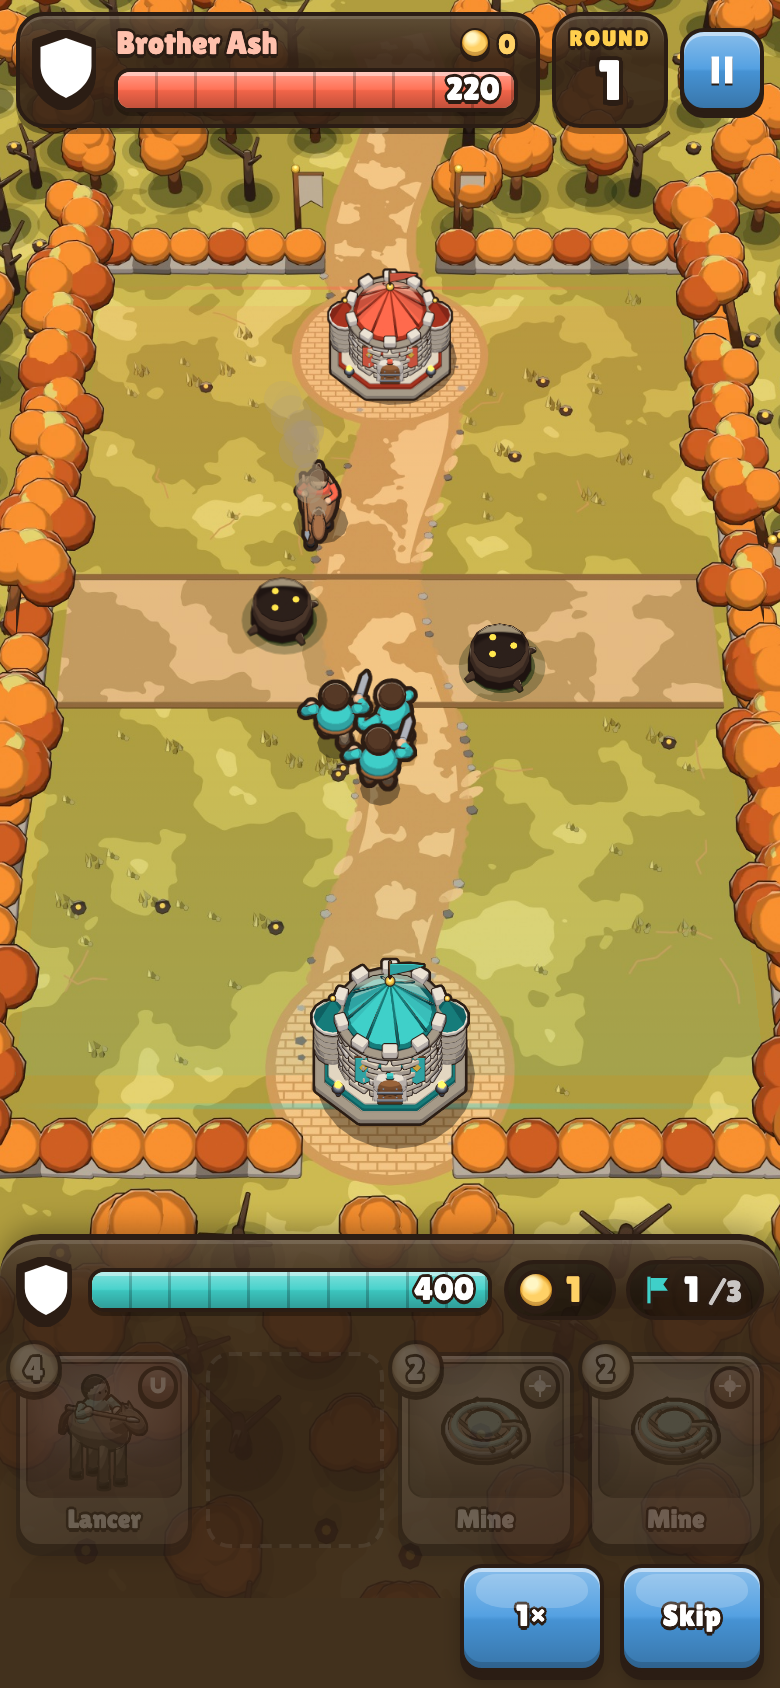
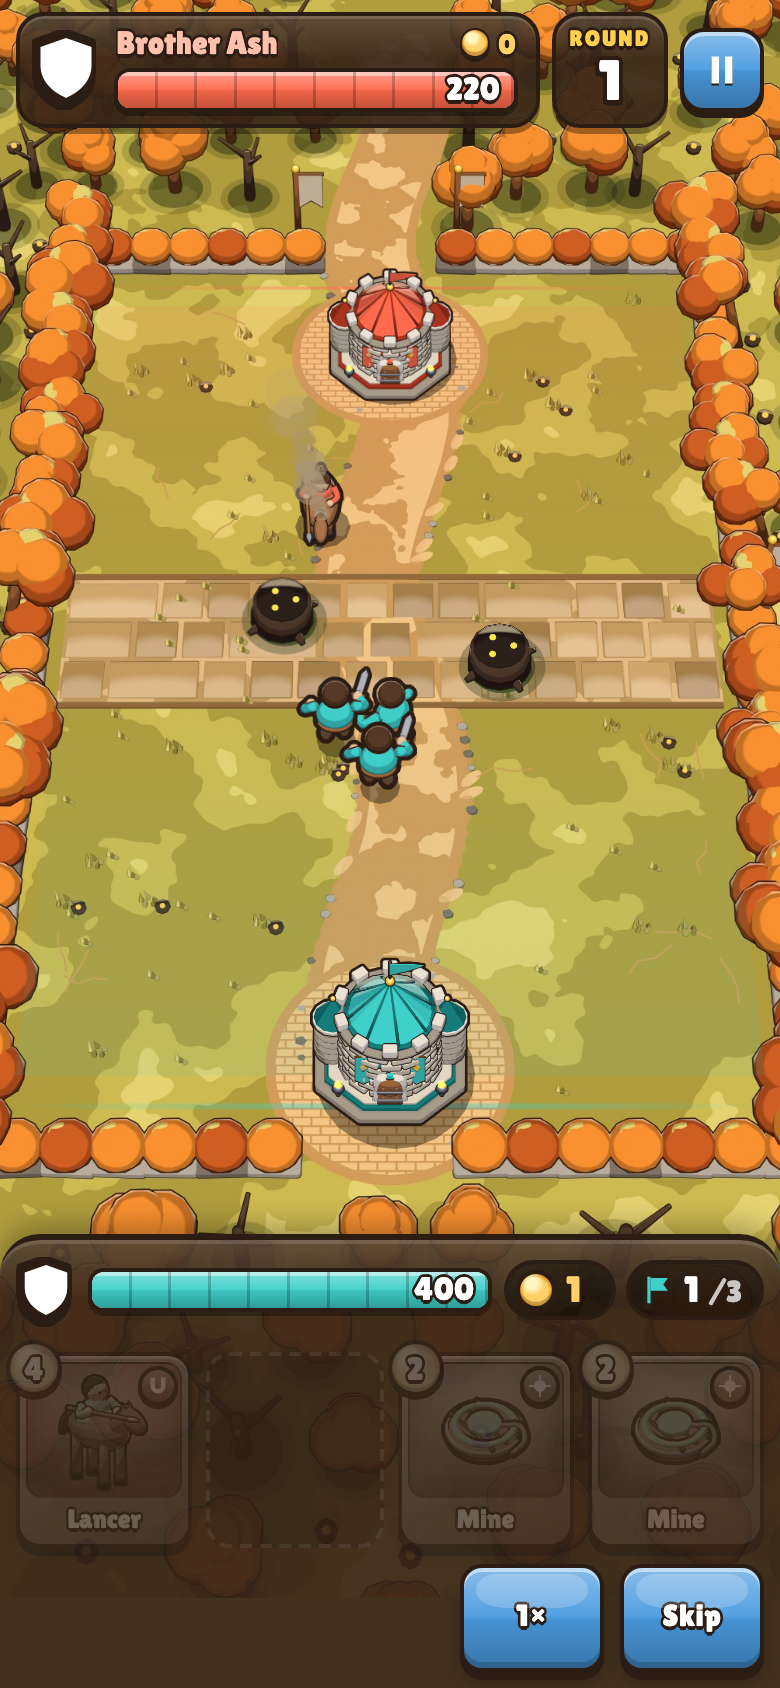
Arenas: own strips for Acts 2-4 (cracked mud, mossy stones, ore-cart track), fairy rings, frost clumps; cheaper foreground
- Ash Fields' strip is cracked mud plates, Hollow Wood's mossy flagstones with toadstool fairy rings in each zone,
  Iron Pass gets sleepers and iron rails across the pass, Frozen Reach frost clumps and banners
- foreground.ts redraws only the part of a cell over the figures under it (the backdrop already holds the canopy),
  arena images are decoded on load so the first fade doesn't hitch
- fix: the Frozen Reach relief shadowed the script's args (crashed the manifest step after Act 6)

Changed region(s): [[0.0615, 0.2464, 0.9231, 0.4929], [0.9231, 0.1848, 0.9538, 0.2156]]

diff --git a/src/render/foreground.ts b/src/render/foreground.ts
@@ -9,7 +9,7 @@ import { backdropRect, type Arena } from "./arena";
 import type { Camera, Rect } from "./camera";
 
 /** Alpha of a foreground cell with a unit under it. */
-export const FG_FADED = 0.28;
+export const FG_FADED = 0.4;
 
 /** Screen rects of the foreground cells (stored as fractions of the backdrop) for a backdrop drawn at `r`. */
 export function fgCells(cells: readonly (readonly number[])[], r: Rect): Rect[] {
@@ -21,6 +21,19 @@ const overlaps = (a: Rect, b: Rect) => a.x < b.x + b.w && b.x < a.x + a.w && a.y
 /** Target alpha per cell: FG_FADED where any unit box overlaps it, else 1. */
 export function fadeTargets(cells: readonly Rect[], boxes: readonly Rect[], faded = FG_FADED): number[] {
   return cells.map((c) => (boxes.some((b) => overlaps(c, b)) ? faded : 1));
+}
+
+/** The part of a cell under the figures overlapping it: the cell clipped to their bounding box (null if none). */
+export function clipTo(cell: Rect, boxes: readonly Rect[]): Rect | null {
+  let x0 = Infinity, y0 = Infinity, x1 = -Infinity, y1 = -Infinity;
+  for (const b of boxes) {
+    if (!overlaps(cell, b)) continue;
+    x0 = Math.min(x0, b.x); y0 = Math.min(y0, b.y); x1 = Math.max(x1, b.x + b.w); y1 = Math.max(y1, b.y + b.h);
+  }
+  if (x1 < x0) return null;
+  x0 = Math.max(x0, cell.x); y0 = Math.max(y0, cell.y);
+  x1 = Math.min(x1, cell.x + cell.w); y1 = Math.min(y1, cell.y + cell.h);
+  return x1 > x0 && y1 > y0 ? { x: x0, y: y0, w: x1 - x0, h: y1 - y0 } : null;
 }
 
 /** Eases alphas toward their targets in place: out quickly (a unit walked under), back in slowly. */
@@ -93,7 +106,7 @@ export class ArenaLayers {
     ctx.restore();
   }
 
-  /** Soft cloud wisps drifting past the courtyard, outside the board. */
+  /** Soft cloud wisps drifting through the sky beyond the far and near rails (outside the board, so no clip). */
   private clouds(ctx: CanvasRenderingContext2D, a: Arena, cam: Camera, time: number) {
     const r = backdropRect(a.m, cam.k, cam.cx, cam.cy);
     if (!this.wisp) {
@@ -107,18 +120,18 @@ export class ArenaLayers {
       }
       this.wisp = c;
     }
-    const tl = cam.project(-0.9, -0.9), tr = cam.project(W + 0.9, -0.9), bl = cam.project(-0.9, H + 0.9), br = cam.project(W + 0.9, H + 0.9);
-    ctx.save();
-    ctx.beginPath();
-    ctx.rect(r.x, r.y, r.w, r.h);
-    ctx.moveTo(tl.x, tl.y); ctx.lineTo(bl.x, bl.y); ctx.lineTo(br.x, br.y); ctx.lineTo(tr.x, tr.y); ctx.closePath();
-    ctx.clip("evenodd");
+    const far = cam.project(0, -0.9).y, near = cam.project(0, H + 0.9).y;
     const span = r.w + 240;
-    for (let i = 0; i < 7; i++) {
-      const sp = 7 + 6 * rnd(i, 3), y = r.y + r.h * (0.04 + 0.92 * rnd(i, 5)), w = 150 + 110 * rnd(i, 9);
-      const x = r.x - 200 + ((rnd(i, 1) * span + time * sp) % span);
-      ctx.globalAlpha = 0.45 + 0.3 * rnd(i, 17);
-      ctx.drawImage(this.wisp, x, y - w * 0.25, w, w * 0.5);
+    ctx.save();
+    for (let i = 0; i < 6; i++) {
+      const top = i % 2 === 0;
+      const y0 = top ? r.y : near, y1 = top ? far : r.y + r.h;
+      const w = 120 + 90 * rnd(i, 9), hh = w * 0.5;
+      if (y1 - y0 < hh * 0.6) continue;
+      const y = y0 + hh * 0.3 + (y1 - y0 - hh * 0.6) * rnd(i, 5) - hh / 2;
+      const x = r.x - 200 + ((rnd(i, 1) * span + time * (7 + 6 * rnd(i, 3))) % span);
+      ctx.globalAlpha = 0.4 + 0.3 * rnd(i, 17);
+      ctx.drawImage(this.wisp, x, y, w, hh);
     }
     ctx.restore();
   }
@@ -135,12 +148,15 @@ export class ArenaLayers {
     const dt = this.last < 0 ? 0 : Math.max(0, Math.min(0.1, time - this.last));
     this.last = time;
     easeAlphas(this.alpha, target, dt);
+    // The backdrop already holds this canopy at full strength, so drawing it again only shows where a figure was drawn
+    // over it: each cell redraws just the part covering the figures under it, at the cell's eased alpha.
     const sx = img.naturalWidth / r.w, sy = img.naturalHeight / r.h;
     ctx.save();
     for (let i = 0; i < cells.length; i++) {
-      const c = cells[i], al = this.alpha[i];
-      if (al <= 0.01) continue;
-      ctx.globalAlpha = al;
+      if (target[i] >= 1) continue;
+      const c = clipTo(cells[i], boxes);
+      if (!c) continue;
+      ctx.globalAlpha = this.alpha[i];
       ctx.drawImage(img, (c.x - r.x) * sx, (c.y - r.y) * sy, c.w * sx, c.h * sy, c.x, c.y, c.w, c.h);
     }
     ctx.restore();

diff --git a/tests/foreground.test.ts b/tests/foreground.test.ts
@@ -74,3 +74,13 @@ describe("arena foreground", () => {
     }
   });
 });
+
+describe("foreground redraw region", () => {
+  it("clips a cell to the figures under it, and skips cells with none", async () => {
+    const { clipTo } = await import("../src/render/foreground");
+    const cell = { x: 0, y: 0, w: 100, h: 100 };
+    expect(clipTo(cell, [{ x: 90, y: 40, w: 30, h: 20 }])).toEqual({ x: 90, y: 40, w: 10, h: 20 });
+    expect(clipTo(cell, [{ x: 10, y: 10, w: 10, h: 10 }, { x: 50, y: 60, w: 10, h: 10 }])).toEqual({ x: 10, y: 10, w: 50, h: 60 });
+    expect(clipTo(cell, [{ x: 200, y: 0, w: 10, h: 10 }])).toBeNull();
+  });
+});

diff --git a/src/render/arena.ts b/src/render/arena.ts
@@ -64,7 +64,8 @@ function load(url: string): Promise<HTMLImageElement | null> {
   return new Promise((res) => {
     const i = new Image();
     i.decoding = "async";
-    i.onload = () => { images.set(url, i); res(i); };
+    // Decode up front so the first frame that draws it (the foreground, mid-battle) doesn't hitch.
+    i.onload = () => { images.set(url, i); (i.decode ? i.decode().catch(() => undefined) : Promise.resolve()).then(() => res(i)); };
     i.onerror = () => { images.set(url, null); res(null); };
     i.src = url;
   });

diff --git a/art/arenas/render_arenas.py b/art/arenas/render_arenas.py
@@ -50,15 +50,17 @@ ACTS = {
     2: dict(name="Ash Fields", g=dict(grass="#c3b85c", grass_dk="#a89c48", grass_lt="#d9cf7a", strip="#d8b98a", strip_dk="#b99a68",
                                        foliage="#e8913c", foliage_dk="#c0612c", path="#e6c48e", path_dk="#c69b62", moss="#b2a04a"),
             border="hedge", trees=("broad", "broad", "dead"), scatter="embers", obstacle="charstump", footing=True,
-            dress=dict(wear=True, clumps="dry", n_clumps=24, tufts=60, cracks=26, banners=("#e8dcc0", "#c0612c")), fg="canopy"),
+            dress=dict(wear=True, clumps="dry", n_clumps=26, tufts=60, cracks=30, banners=("#e8dcc0", "#c0612c"),
+                       cobbles=("#b99a68", "#a88a5a", "#c4a675", "#9c7f52"), cobble_size=0.64, cobble_gap=0.07), fg="canopy"),
     3: dict(name="Hollow Wood", g=dict(grass="#6cb552", grass_dk="#54993f", grass_lt="#8ccb63", foliage="#46a04c", foliage_dk="#2e7a3a",
                                        strip="#c9b083", strip_dk="#a98f63"),
             border="hedge", trees=("broad", "pine", "broad"), scatter="mushrooms", obstacle="stump",
-            dress=dict(wear=True, clumps="ferns", n_clumps=30, tufts=90, moss=16, roots=True), fg="canopy"),
+            dress=dict(wear=True, clumps="ferns", n_clumps=30, tufts=90, moss=16, roots=True, rings=True,
+                       cobbles=("#9fa88c", "#8e9a7c", "#aab39a", "#b5ab8c"), cobble_size=0.62, cobble_gap=0.08), fg="canopy"),
     4: dict(name="Iron Pass", g=dict(grass="#a2bd72", grass_dk="#88a35d", grass_lt="#bcd38e", path="#ddd2b8", path_dk="#b8aa8c",
                                      strip="#cfc6b2", strip_dk="#aea38c", foliage="#4f9a5e", foliage_dk="#2f6f45", rock="#b4b0a8", rock_dk="#7d7972"),
             border="rocks", trees=("pine", "pine", "crag"), scatter="pebbles", obstacle="crag",
-            dress=dict(wear=True, clumps="heather", n_clumps=26, tufts=40, gravel=18, cracks=12, banners=("#cfd8e3", "#4f6f9a")), fg="pines"),
+            dress=dict(wear=True, clumps="heather", n_clumps=26, tufts=40, gravel=18, cracks=12, banners=("#cfd8e3", "#4f6f9a"), rails=True), fg="pines"),
     5: dict(name="High Keep", g=dict(grass="#8cc45e", grass_dk="#70ad4b", grass_lt="#a9d878", path="#cf5446", path_dk="#9c3a30",
                                      strip="#86c25a", strip_dk="#6aa947", court="#dcc6a0", court_dk="#a88d68"),
             court=True, strip_pat="patches", border="wall", trees=("topiary",), scatter="flowers", obstacle="pillar",
@@ -67,7 +69,8 @@ ACTS = {
     6: dict(name="Frozen Reach", g=dict(grass="#eef5fb", grass_dk="#d3e2ef", grass_lt="#ffffff", path="#c5d7e8", path_dk="#9fb7cf",
                                         strip="#dbe7f2", strip_dk="#b9cde0", foliage="#3f8f6a", foliage_dk="#2b6b52", rock="#a9b4c2", rock_dk="#76828f",
                                         moss="#f4f9ff", edge="#8aa2bb"),
-            border="snow", trees=("snowpine",), scatter="ice", obstacle="icerock", relief="snow", fg="snowpines"),
+            border="snow", trees=("snowpine",), scatter="ice", obstacle="icerock", relief="snow", fg="snowpines",
+            dress=dict(clumps="frost", n_clumps=20, banners=("#e9f2fb", "#5b7fb0"))),
     7: dict(name="Sky Throne", g=dict(grass="#bfe0ff", grass_dk="#a6d0f7", grass_lt="#e6f3ff", path="#6f8fe0", path_dk="#4c69bd",
                                       strip="#efe3c8", strip_dk="#cdbd9a", court="#f5efe3", court_dk="#d9cdb6", rock="#f2ece0", rock_dk="#c9bfae"),
             court=True, border="rail", trees=("cloud",), scatter="none", obstacle="obelisk",
@@ -354,6 +357,13 @@ def main():
                 if i % 3 == 0:
                     wk.cyl(0.03, 0.1, K.toon("#f3ead0"), loc=B(x + 0.16, y + 0.1, 0.05), outline=0.006)
                     wk.sphere(0.07, K.toon("#e2483a"), loc=B(x + 0.16, y + 0.1, 0.11), scale=(1, 1, 0.6), seg=12, rings=6, outline=0.006)
+            elif kind == "frost":
+                wk.ball(0.2, K.toon("#ffffff"), loc=B(x, y, 0.0), scale=(1.4, 1.1, 0.4), subdiv=2, outline=0.004)
+                for j in range(2 + i % 2):
+                    aa = j * 2.3 + i
+                    wk.crystal(0.05, 0.2 + 0.06 * j, K.toon("#bfe9ff", spec=0.6), loc=B(x + math.cos(aa) * 0.1, y + math.sin(aa) * 0.07, 0.02), rot=(14 * math.cos(aa), 14 * math.sin(aa), 0))
+                if i % 4 == 0:  # a frozen grass stalk
+                    wk.cone(0.03, 0.16, toon("foliage"), loc=B(x - 0.12, y + 0.05, 0.08), seg=5, outline=0.004)
             elif kind == "heather":
                 wk.ball(0.15, toon("foliage_dk"), loc=B(x, y, 0.02), scale=(1.3, 1.1, 0.45), subdiv=2, outline=0.004)
                 for j in range(5):
@@ -405,7 +415,27 @@ def main():
                         n += 1
             if ds.get("cobbles"):
                 # An old road across the neutral strip: low raised cobbles, the path crossing it.
-                flagstones(0.0, ZD + 0.08, W, H - ZD - 0.08, 0.46, ds["cobbles"], 7, gap=0.045)
+                flagstones(0.0, ZD + 0.08, W, H - ZD - 0.08, ds.get("cobble_size", 0.46), ds["cobbles"], 7, gap=ds.get("cobble_gap", 0.045))
+            if ds.get("rails"):
+                # An old ore-cart track across the pass: sleepers and two iron rails.
+                y = H / 2
+                wood, iron = K.toon("#7a5232"), K.toon("#8a94a2", spec=0.5)
+                xx = 0.15
+                while xx < W:
+                    wk.box((0.13, 0.95, 0.035), wood, loc=B(xx, y, 0.03), rot=(0, 0, (rnd(int(xx * 10), 231) - 0.5) * 6), bevel=0.01, outline=0.004)
+                    xx += 0.36
+                for dy in (-0.3, 0.3):
+                    wk.box((W + 0.4, 0.06, 0.05), iron, loc=B(W / 2, y + dy, 0.07), bevel=0.01, outline=0.004)
+            if ds.get("rings"):
+                # A fairy ring of toadstools in each deploy zone.
+                for (cx, cy) in ((1.7, 3.6), (7.2, H - 3.4)):
+                    for j in range(9):
+                        aa = j * math.tau / 9
+                        x, y = cx + math.cos(aa) * 0.55, cy + math.sin(aa) * 0.42
+                        wk.cyl(0.03, 0.1, K.toon("#f3ead0"), loc=B(x, y, 0.05), outline=0.006)
+                        wk.sphere(0.07 + 0.02 * (j % 2), K.toon("#e2483a" if j % 3 else "#f2a03a"), loc=B(x, y, 0.11), scale=(1, 1, 0.6), seg=12, rings=6, outline=0.006)
+                    with wk.at(B(cx, cy, 0.006), scale=(1.3, 1.0, 1)):
+                        wk.cyl(0.5, 0.004, K.flat(g["grass_lt"], alpha=0.45), seg=24, outline=0)
             if ds.get("wear"):
                 for n in range(int((H + 1.0) / 0.22)):
                     y = -0.4 + n * 0.22
